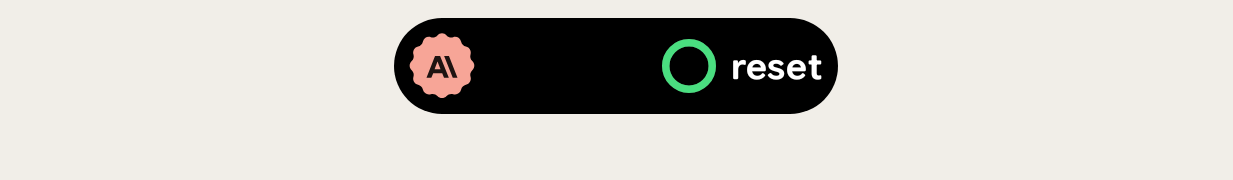
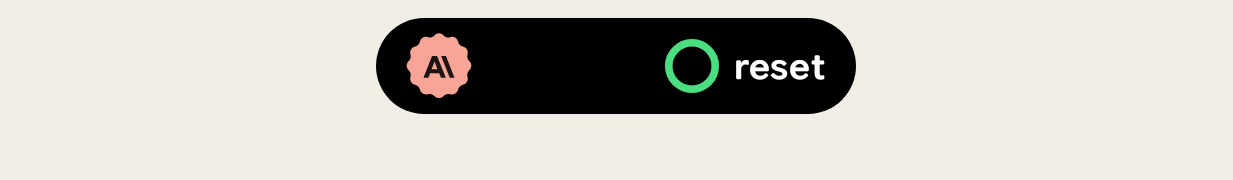
Size the reset island from the camera's own outline
A Pixel reports its punch hole as a rectangle from the top edge down to
the bottom of the status bar, so the island grew as tall as the status
bar and too narrow for its content. It now uses the outline of the
cutout, or takes a tall rectangle as a round hole at its bottom. The
"reset" label has a fixed size, like the logo and the ring, so a large
font scale cannot push it out of the pill, and the content keeps clear
of the rounded ends.

Changed region(s): [[0.5239, 0.0833, 0.7088, 0.6389], [0.2774, 0.0833, 0.4006, 0.6389], [0.3698, 0.25, 0.4006, 0.3056]]

diff --git a/app/src/main/kotlin/dev/sebastiano/headroom/island/IslandSurface.kt b/app/src/main/kotlin/dev/sebastiano/headroom/island/IslandSurface.kt
@@ -225,7 +225,7 @@ private fun IslandContent(
     val pill = geometry.expanded
     val hole = geometry.collapsed
     // Content sits as far in from each end as it sits from the top, so it follows the rounded end.
-    val inset = with(density) { ((pill.height.toDp() - LOGO_SIZE) / 2).coerceAtLeast(4.dp) }
+    val inset = with(density) { ((pill.height.toDp() - LOGO_SIZE) / 2).coerceAtLeast(MIN_INSET) }
     val leftWidth = with(density) { (hole.left - pill.left).toDp() }
     val rightWidth = with(density) { (pill.right - hole.right).toDp() }
     Row(modifier = modifier.fillMaxSize(), verticalAlignment = Alignment.CenterVertically) {
@@ -333,10 +333,14 @@ private fun ResetLabel(visible: Boolean, modifier: Modifier = Modifier) {
             animationSpec = HeadroomMotion.effectsSpec(),
             label = "island-label",
         )
+    // A fixed size, like the logo and the ring: the pill has no room to grow with the font scale.
+    // A screen reader reads the island's description instead.
+    val fixedSize = with(LocalDensity.current) { LABEL_SIZE.toSp() }
     Text(
         text = stringResource(R.string.reset_island_reset),
         color = Color.White,
-        style = MaterialTheme.typography.labelMedium,
+        style =
+            MaterialTheme.typography.labelMedium.copy(fontSize = fixedSize, lineHeight = fixedSize),
         maxLines = 1,
         softWrap = false,
         modifier =
@@ -364,6 +368,10 @@ private val BADGE_SIZE = 11.dp
 private val RING_SIZE = 18.dp
 private val RING_STROKE = 2.5.dp
 private val LABEL_SLIDE = (-6).dp
+private val LABEL_SIZE = 12.dp
+
+/** Content never gets closer than this to a rounded end. */
+private val MIN_INSET = 10.dp
 
 /** A charging green, bright enough on black. */
 private val RefillGreen = Color(0xFF4ADE80)

diff --git a/app/src/main/kotlin/dev/sebastiano/headroom/island/IslandWindow.kt b/app/src/main/kotlin/dev/sebastiano/headroom/island/IslandWindow.kt
@@ -2,6 +2,7 @@ package dev.sebastiano.headroom.island
 
 import android.content.Context
 import android.graphics.PixelFormat
+import android.graphics.RectF
 import android.os.Handler
 import android.os.Looper
 import android.util.Log
@@ -27,12 +28,21 @@ import dev.sebastiano.headroom.designsystem.HeadroomTheme
 internal fun WindowManager.measureIsland(density: Float, tight: Boolean = false): IslandGeometry {
     val metrics = maximumWindowMetrics
     val bounds = metrics.bounds
-    val cutout =
-        metrics.windowInsets.displayCutout
+    val cutout = metrics.windowInsets.displayCutout
+    val rect =
+        cutout
             ?.boundingRects
             ?.firstOrNull { it.top == 0 }
             ?.let { PxRect(it.left, it.top, it.right, it.bottom) }
-    return islandGeometry(cutout, bounds.width(), bounds.height(), density, tight)
+    // The outline of the top cutout: the path covers every cutout, so keep the part in the rect.
+    val outline =
+        cutout?.cutoutPath?.let { path ->
+            val box = RectF().also { path.computeBounds(it) }
+            PxRect(box.left.toInt(), box.top.toInt(), box.right.toInt(), box.bottom.toInt())
+                .takeIf { box -> rect != null && !box.isEmpty && rect.contains(box) }
+        }
+    val hole = cameraHole(outline, rect)
+    return islandGeometry(hole, bounds.width(), bounds.height(), density, tight)
 }
 
 /** The two kinds of window the island can be drawn in. */

diff --git a/app/src/main/kotlin/dev/sebastiano/headroom/island/IslandGeometry.kt b/app/src/main/kotlin/dev/sebastiano/headroom/island/IslandGeometry.kt
@@ -29,8 +29,23 @@ internal data class PxRect(val left: Int, val top: Int, val right: Int, val bott
             max(bottom, other.bottom),
         )
 
+    val isEmpty: Boolean
+        get() = width <= 0 || height <= 0
+
     fun offset(dx: Int, dy: Int): PxRect = PxRect(left + dx, top + dy, right + dx, bottom + dy)
 }
+
+/**
+ * The camera hole itself. Android reports a cutout as a bounding [rect], which on a Pixel runs from
+ * the top edge down past the hole, so the [outline] of the cutout is used when there is one.
+ * Without it, a rect taller than wide is taken as a round hole at its bottom.
+ */
+internal fun cameraHole(outline: PxRect?, rect: PxRect?): PxRect? =
+    outline
+        ?: rect?.let {
+            if (it.height > it.width) PxRect(it.left, it.bottom - it.width, it.right, it.bottom)
+            else it
+        }
 
 /**
  * Where the island is, in pixels. [window] is the overlay window on the screen. The other rects are
@@ -108,7 +123,7 @@ internal fun islandGeometry(
 }
 
 /** How far the pill reaches past the hole on each side, for the logo and for the ring. */
-private const val SIDE_DP = 64f
+private const val SIDE_DP = 70f
 
 /** How much larger than the hole the pill is, above, below and around it. */
 private const val PAD_DP = 6f

diff --git a/app/src/test/kotlin/dev/sebastiano/headroom/island/IslandGeometryTest.kt b/app/src/test/kotlin/dev/sebastiano/headroom/island/IslandGeometryTest.kt
@@ -92,4 +92,19 @@ class IslandGeometryTest {
         assertTrue(geometry.expanded.contains(geometry.collapsed))
         assertEquals(geometry.expanded.centerX, geometry.collapsed.centerX, 1f)
     }
+
+    @Test
+    fun `the hole is the camera's own outline, not the tall rectangle Android reports`() {
+        // A Pixel reports its punch hole as a rectangle from the top edge down past the hole.
+        val rect = PxRect(left = 570, top = 0, right = 660, bottom = 190)
+        val outline = PxRect(left = 580, top = 52, right = 650, bottom = 122)
+        assertEquals(outline, cameraHole(outline = outline, rect = rect))
+    }
+
+    @Test
+    fun `without an outline, a tall rectangle is taken as a round hole at its bottom`() {
+        val rect = PxRect(left = 570, top = 0, right = 660, bottom = 190)
+        assertEquals(PxRect(570, 100, 660, 190), cameraHole(outline = null, rect = rect))
+        assertEquals(null, cameraHole(outline = null, rect = null))
+    }
 }
